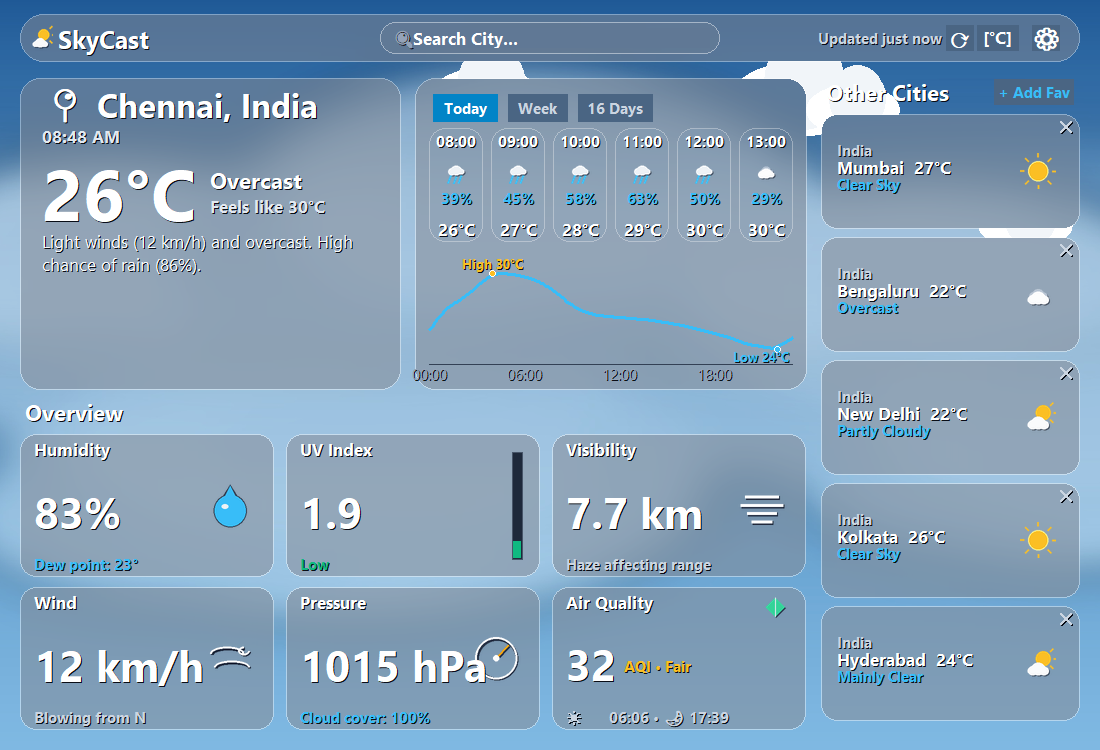
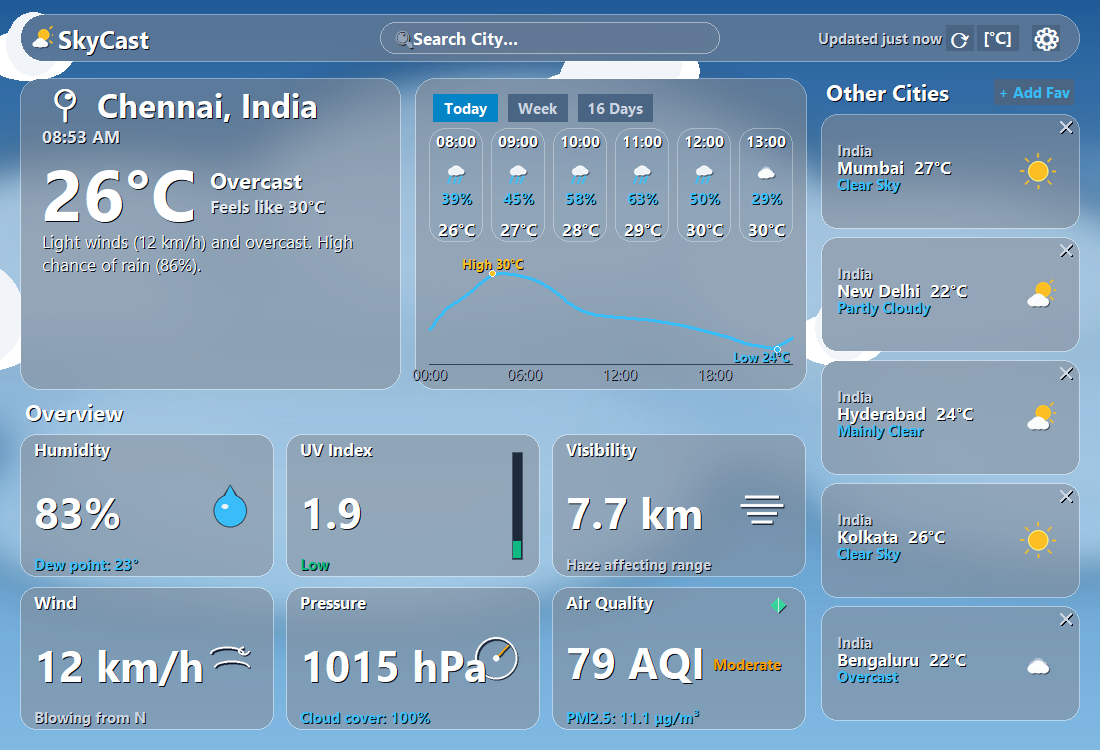
feat(aqi): switch to real-time US/Indian AQI (0-500 scale) with PM2.5 calculation

diff --git a/desktop/ui/main_window.py b/desktop/ui/main_window.py
@@ -1731,16 +1731,17 @@ class SkyCastMainWindow(tk.Tk):
         self._draw_overview_tile_pressure(x + tile_w + gap_x, r2_y, tile_w, tile_h, press_val, clouds, is_compact)
 
         # --- Row 2, Col 3: Air Quality & Solar Times ---
-        raw_aqi = aqi_data.get("european_aqi") if aqi_data else None
+        raw_aqi = aqi_data.get("us_aqi") if aqi_data else None
         if raw_aqi is None or not isinstance(raw_aqi, (int, float)):
-            raw_aqi = aqi_data.get("us_aqi", 35) if aqi_data else 35
+            raw_aqi = aqi_data.get("aqi", aqi_data.get("european_aqi", 50)) if aqi_data else 50
         try:
             aqi_val = int(min(max(float(raw_aqi), 0), 500))
         except Exception:
-            aqi_val = 35
+            aqi_val = 50
+        pm25_val = aqi_data.get("pm2_5", 12.0) if aqi_data else 12.0
         sunrise_iso = daily.get("sunrise", [""])[0] if daily else ""
         sunset_iso = daily.get("sunset", [""])[0] if daily else ""
-        self._draw_overview_tile_aqi(x + (tile_w + gap_x) * 2, r2_y, tile_w, tile_h, aqi_val, sunrise_iso, sunset_iso, is_compact)
+        self._draw_overview_tile_aqi(x + (tile_w + gap_x) * 2, r2_y, tile_w, tile_h, aqi_val, pm25_val, sunrise_iso, sunset_iso, is_compact)
 
     def _draw_overview_tile_humidity(self, tx, ty, tw, th, hum_val, dew_pt, is_compact):
         photo = render_frosted_glass_panel(self.bg_pil_image, tx, ty, tw, th, radius=16, blur_radius=16, tint_opacity=0.25, dark_overlay_opacity=0.35)
@@ -1824,47 +1825,57 @@ class SkyCastMainWindow(tk.Tk):
         self._draw_shadow_text(tx + 14, ty + th // 2 + 6, f"{press_val} hPa", self.fonts["tile_val"], fill="#FFFFFF", anchor="w")
         self._draw_shadow_text(tx + 14, ty + th - 13, f"Cloud cover: {clouds}%", self.fonts["small_bold"], fill="#38BDF8", anchor="w")
 
-    def _draw_overview_tile_aqi(self, tx, ty, tw, th, aqi_val, sunrise_iso, sunset_iso, is_compact):
+    def _draw_overview_tile_aqi(self, tx, ty, tw, th, aqi_val, pm25_val, sunrise_iso, sunset_iso, is_compact):
         photo = render_frosted_glass_panel(self.bg_pil_image, tx, ty, tw, th, radius=16, blur_radius=16, tint_opacity=0.25, dark_overlay_opacity=0.35)
         self.canvas.create_image(tx, ty, image=photo, anchor="nw", tags="glass_panel")
         self._draw_shadow_text(tx + 14, ty + 15, "Air Quality", self.fonts["body_bold"], fill="#FFFFFF", anchor="w")
 
-        # Compact diamond icon positioned cleanly in upper right corner (size 26-30px)
-        aqi_sz = 26 if is_compact else 30
+        # Compact diamond icon positioned cleanly in upper right corner (size 24px)
+        aqi_sz = 22 if is_compact else 24
         aqi_img = get_weather_icon_image("aqi", size=aqi_sz)
         self._icon_refs.append(aqi_img)
-        self.canvas.create_image(tx + tw - 16 - aqi_sz // 2, ty + 20, image=aqi_img, tags="ui_element")
+        self.canvas.create_image(tx + tw - 16 - aqi_sz // 2, ty + 18, image=aqi_img, tags="ui_element")
 
-        # Resolve AQI rating level & category
+        # Resolve AQI rating level & category (0-500 US/Indian standard scale)
         try:
-            val_int = int(min(max(float(aqi_val or 35), 0), 500))
+            val_int = int(min(max(float(aqi_val or 50), 0), 500))
         except Exception:
-            val_int = 35
+            val_int = 50
         aqi_level = get_aqi_level(val_int)
         cat_name = aqi_level.get("label", aqi_level.get("category", "Good"))
         col = aqi_level.get("color", "#10B981")
 
-        # Main numeric AQI value using exact same 26pt bold font size as other tiles
-        val_str = str(val_int)
-        self._draw_shadow_text(tx + 14, ty + th // 2 + 5, val_str, self.fonts["tile_val"], fill="#FFFFFF", anchor="w")
+        # Display integer AQI value (f"{val_int} AQI") in exact same 26pt bold font as other 5 overview cards
+        val_str = f"{val_int} AQI"
+        self._draw_shadow_text(tx + 14, ty + th // 2 + 3, val_str, self.fonts["tile_val"], fill="#FFFFFF", anchor="w")
 
-        # Measure width of value string to place status label cleanly next to it without overlap
+        # Category label cleanly aligned beside the AQI value
         val_w = self.fonts["tile_val"].measure(val_str)
+        cat_display = "Sensitive" if "Sensitive" in cat_name else ("V.Unhealthy" if "Very" in cat_name else cat_name)
         status_x = tx + 14 + val_w + 8
-        self._draw_shadow_text(status_x, ty + th // 2 + 8, f"AQI • {cat_name}", self.fonts["small_bold"], fill=col, anchor="w")
+        if status_x + self.fonts["small_bold"].measure(cat_display) <= tx + tw - 12:
+            self._draw_shadow_text(status_x, ty + th // 2 + 6, cat_display, self.fonts["small_bold"], fill=col, anchor="w")
+        else:
+            self._draw_shadow_text(tx + tw - 14, ty + th // 2 + 6, cat_display, self.fonts["small_bold"], fill=col, anchor="e")
 
-        # Sunrise / sunset formatting on bottom row
-        sun_str = ""
+        # Bottom Subtitle: PM2.5: {pm25} µg/m³ and solar times
+        pm_str = f"PM2.5: {pm25_val} µg/m³" if pm25_val is not None else "PM2.5: -- µg/m³"
+
+        sun_short = ""
         if "T" in sunrise_iso and "T" in sunset_iso:
             try:
                 sr = sunrise_iso.split("T")[1][:5]
                 ss = sunset_iso.split("T")[1][:5]
-                sun_str = f"☀ {sr} • 🌙 {ss}"
+                sun_short = f"☀{sr} 🌙{ss}"
             except Exception:
                 pass
 
-        bottom_text = sun_str if sun_str else f"Status: {cat_name}"
-        self._draw_shadow_text(tx + 14, ty + th - 13, bottom_text, self.fonts["small_bold"], fill="#CBD5E1", anchor="w")
+        pm_w = self.fonts["small_bold"].measure(pm_str)
+        sun_w = self.fonts["small_bold"].measure(sun_short) if sun_short else 0
+
+        self._draw_shadow_text(tx + 14, ty + th - 13, pm_str, self.fonts["small_bold"], fill="#38BDF8", anchor="w")
+        if sun_short and (pm_w + sun_w + 36 <= tw):
+            self._draw_shadow_text(tx + tw - 14, ty + th - 13, sun_short, self.fonts["small_bold"], fill="#CBD5E1", anchor="e")
 
     # ========================================================================
     # Loading Spinner Overlay & Error Notification Banner

diff --git a/desktop/api_client.py b/desktop/api_client.py
@@ -18,6 +18,37 @@ import re
 import threading
 from typing import Dict, Any, List, Optional, Callable
 
+def calculate_aqi_from_pm25(pm25: float) -> int:
+    """
+    Standard EPA / Indian National Air Quality Index (NAQI) conversion from PM2.5 (ug/m3):
+    Breakpoints (C_low - C_high) -> AQI (I_low - I_high)
+      0.0 -  12.0 ->   0 -  50 (Good)
+     12.1 -  35.4 ->  51 - 100 (Moderate)
+     35.5 -  55.4 -> 101 - 150 (Unhealthy for Sensitive Groups)
+     55.5 - 150.4 -> 151 - 200 (Unhealthy)
+    150.5 - 250.4 -> 201 - 300 (Very Unhealthy)
+    250.5 - 350.4 -> 301 - 400 (Hazardous)
+    350.5 - 500.4 -> 401 - 500 (Hazardous)
+    """
+    if pm25 is None or pm25 < 0:
+        return 50
+    c = round(float(pm25), 1)
+    breakpoints = [
+        (0.0, 12.0, 0, 50),
+        (12.1, 35.4, 51, 100),
+        (35.5, 55.4, 101, 150),
+        (55.5, 150.4, 151, 200),
+        (150.5, 250.4, 201, 300),
+        (250.5, 350.4, 301, 400),
+        (350.5, 500.4, 401, 500),
+    ]
+    for c_low, c_high, i_low, i_high in breakpoints:
+        if c_low <= c <= c_high:
+            return round(((i_high - i_low) / (c_high - c_low)) * (c - c_low) + i_low)
+    if c > 500.4:
+        return 500
+    return 50
+
 class WeatherApiClient:
     GEOCODE_URL = "https://geocoding-api.open-meteo.com/v1/search"
     FORECAST_URL = "https://api.open-meteo.com/v1/forecast"
@@ -141,30 +172,40 @@ class WeatherApiClient:
             aq_params = {
                 "latitude": lat,
                 "longitude": lon,
-                "current": "european_aqi,us_aqi,pm10,pm2_5",
+                "current": "us_aqi,european_aqi,pm2_5,pm10",
                 "timezone": "auto"
             }
             aq_resp = requests.get(self.AIR_QUALITY_URL, params=aq_params, timeout=self.timeout)
             if aq_resp.ok:
                 raw_aq = aq_resp.json().get("current", {})
-                eu = raw_aq.get("european_aqi")
-                us = raw_aq.get("us_aqi")
+                us_aqi = raw_aq.get("us_aqi")
+                eu_aqi = raw_aq.get("european_aqi")
+                pm2_5 = raw_aq.get("pm2_5")
+                pm10 = raw_aq.get("pm10")
 
-                # Extract value: prefer european_aqi, fallback to us_aqi, clamp 0-500, default to 35 if null
-                aqi_clean = 35
-                if eu is not None and isinstance(eu, (int, float)):
-                    aqi_clean = int(min(max(float(eu), 0), 500))
-                elif us is not None and isinstance(us, (int, float)):
-                    aqi_clean = int(min(max(float(us), 0), 500))
+                # Extract US/Indian standard AQI (0-500 scale)
+                aqi_clean = None
+                if us_aqi is not None and isinstance(us_aqi, (int, float)) and float(us_aqi) > 0:
+                    aqi_clean = int(min(max(float(us_aqi), 0), 500))
+                elif pm2_5 is not None and isinstance(pm2_5, (int, float)):
+                    # Calculate standard EPA / Indian AQI directly from PM2.5 concentration
+                    aqi_clean = calculate_aqi_from_pm25(float(pm2_5))
+                elif eu_aqi is not None and isinstance(eu_aqi, (int, float)):
+                    # Approximate European AQI (0-100) -> standard scale (0-500)
+                    aqi_clean = int(min(max(float(eu_aqi) * 2.5, 0), 500))
+                else:
+                    aqi_clean = 50
 
-                raw_aq["european_aqi"] = aqi_clean
-                raw_aq["us_aqi"] = int(min(max(float(us), 0), 500)) if us is not None and isinstance(us, (int, float)) else aqi_clean
+                raw_aq["us_aqi"] = aqi_clean
+                raw_aq["aqi"] = aqi_clean
+                raw_aq["pm2_5"] = round(float(pm2_5), 1) if pm2_5 is not None else 12.0
+                raw_aq["pm10"] = round(float(pm10), 1) if pm10 is not None else 20.0
                 aqi_payload = raw_aq
         except Exception:
             pass  # Air quality failure must never prevent core weather from loading
 
-        if not aqi_payload or "european_aqi" not in aqi_payload:
-            aqi_payload = {"european_aqi": 35, "us_aqi": 35}
+        if not aqi_payload or "us_aqi" not in aqi_payload:
+            aqi_payload = {"us_aqi": 50, "aqi": 50, "pm2_5": 12.0, "pm10": 20.0}
 
         weather_payload["air_quality"] = aqi_payload
         return weather_payload

diff --git a/shared/weather_codes.py b/shared/weather_codes.py
@@ -606,21 +606,21 @@ def get_weather_info(code: int, is_day: int = 1) -> Dict[str, Any]:
     """Compatibility helper returning resolved theme dictionary."""
     return resolve_theme(wmo_code=code, is_day=is_day)
 
-def get_aqi_level(european_aqi: Optional[float]) -> Dict[str, Any]:
-    """European Air Quality Index (AQI) scale."""
-    val = round(float(european_aqi or 0))
-    if val <= 20:
-        return {"val": val, "label": "Good", "color": "#10B981"}
-    elif val <= 40:
-        return {"val": val, "label": "Fair", "color": "#FBBF24"}
-    elif val <= 60:
-        return {"val": val, "label": "Moderate", "color": "#F97316"}
-    elif val <= 80:
-        return {"val": val, "label": "Poor", "color": "#EF4444"}
+def get_aqi_level(aqi: Optional[float]) -> Dict[str, Any]:
+    """Standard 0–500 US / Indian Air Quality Index (AQI) scale."""
+    val = round(float(aqi or 0))
+    if val <= 50:
+        return {"val": val, "label": "Good", "category": "Good", "color": "#10B981"}
     elif val <= 100:
-        return {"val": val, "label": "Very Poor", "color": "#A855F7"}
+        return {"val": val, "label": "Moderate", "category": "Moderate", "color": "#F59E0B"}
+    elif val <= 150:
+        return {"val": val, "label": "Sensitive", "category": "Sensitive Groups", "color": "#F97316"}
+    elif val <= 200:
+        return {"val": val, "label": "Unhealthy", "category": "Unhealthy", "color": "#EF4444"}
+    elif val <= 300:
+        return {"val": val, "label": "Very Unhealthy", "category": "Very Unhealthy", "color": "#8B5CF6"}
     else:
-        return {"val": val, "label": "Hazardous", "color": "#881337"}
+        return {"val": val, "label": "Hazardous", "category": "Hazardous", "color": "#7F1D1D"}
 
 def get_uv_level(uv_val: Optional[float]) -> Dict[str, Any]:
     """WHO UV Index categories."""
